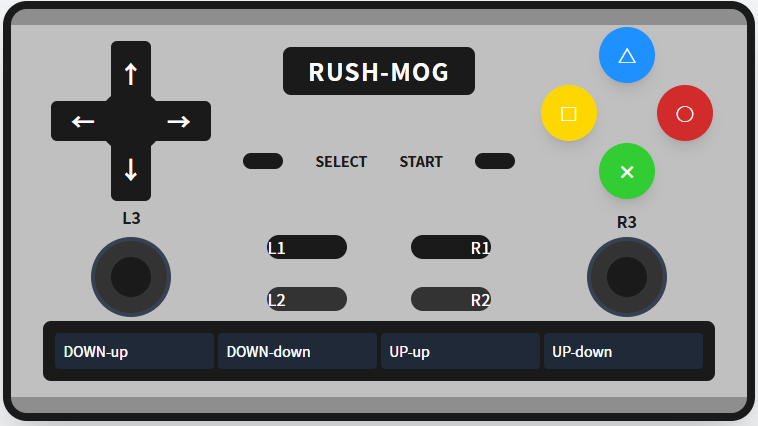
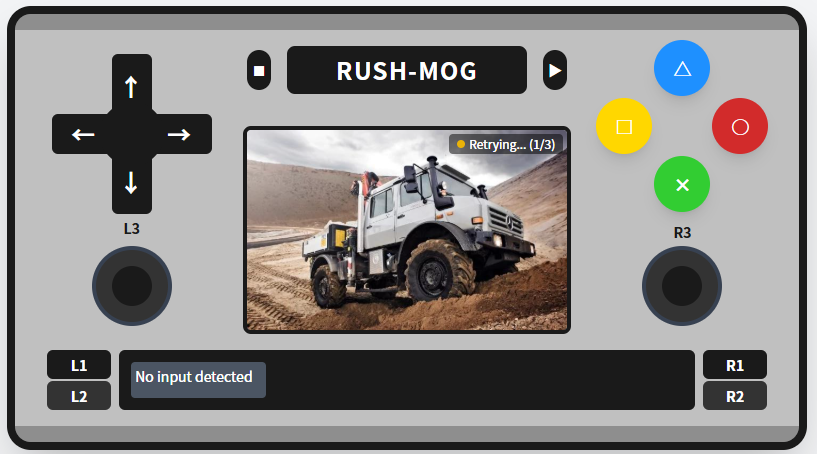
fix hight.

diff --git a/software/remote_center/data/index.html b/software/remote_center/data/index.html
@@ -4,8 +4,8 @@
     <meta charset="UTF-8">
     <meta name="viewport" content="width=device-width, initial-scale=1.0">
     <title>RUSH-MOG</title>
-    <script src="../data/ps2.js"></script>
-    <link href="../data/ps2.css" rel="stylesheet">
+    <script src="ps2.js"></script>
+    <link href="ps2.css" rel="stylesheet">
     <script>
         tailwind.config = {
             theme: {
@@ -172,18 +172,18 @@
             <!-- 底部：自适应宽度、不再写死像素，Mate60横屏完美适配不溢出 -->
             <div class="mt-3 md:mt-4 flex items-stretch w-full gap-2">
                 <!-- 左侧 L1 / L2 自适应固定窄宽 -->
-                <div class="flex flex-col h-[70px] md:h-[88px] w-12 md:w-16 shrink-0">
+                <div class="flex flex-col h-[60px] md:h-[60px] w-12 md:w-16 shrink-0">
                     <div id="l1" class="h-1/2 bg-ps2black rounded-md flex items-center justify-center text-white font-bold text-sm transition-all duration-100 active:scale-95">L1</div>
                     <div id="l2" class="h-1/2 bg-ps2dark rounded-md flex items-center justify-center text-white font-bold text-sm mt-0.5 transition-all duration-100 active:scale-95">L2</div>
                 </div>
 
                 <!-- 中间：状态栏弹性宽度、固定高度、内容溢出隐藏，不会撑宽页面 -->
-                <div id="status" class="bg-ps2black text-white p-2 md:p-3 rounded-md h-[70px] md:h-[88px] flex-1 grid grid-cols-1 md:grid-cols-4 gap-1 overflow-hidden">
-                    <div class="bg-gray-800 p-1 md:p-2 rounded text-xs md:text-sm">No input detected</div>
+                <div id="status" class="bg-ps2black text-white p-2 md:p-3 rounded-md h-[60px] md:h-[60px] flex-1 grid grid-cols-1 md:grid-cols-4 gap-1 overflow-hidden">
+                    <div class="bg-gray-600 p-1 md:p-1 rounded text-xs md:text-sm">No input detected</div>
                 </div>
 
                 <!-- 右侧 R1 / R2 同左侧固定窄宽 -->
-                <div class="flex flex-col h-[70px] md:h-[88px] w-12 md:w-16 shrink-0">
+                <div class="flex flex-col h-[60px] md:h-[60px] w-12 md:w-16 shrink-0">
                     <div id="r1" class="h-1/2 bg-ps2black rounded-md flex items-center justify-center text-white font-bold text-sm transition-all duration-100 active:scale-95">R1</div>
                     <div id="r2" class="h-1/2 bg-ps2dark rounded-md flex items-center justify-center text-white font-bold text-sm mt-0.5 transition-all duration-100 active:scale-95">R2</div>
                 </div>
@@ -205,7 +205,7 @@
             statusElement.innerHTML = '';
             statusEntries.forEach(entry => {
                 const el = document.createElement('div');
-                el.className = 'bg-gray-800 p-1 md:p-2 rounded text-xs md:text-sm';
+                el.className = 'bg-gray-800 p-1 md:p-1 rounded text-xs md:text-sm';
                 el.textContent = entry;
                 statusElement.appendChild(el);
             });
@@ -307,7 +307,7 @@
         const cameraImg = document.getElementById('camera');
         const statusDot = document.getElementById('camera-status-dot');
         const statusText = document.getElementById('camera-status-text');
-        const defaultImage = 'unimog.jpeg';
+        const defaultImage = '/data/unimog.jpeg';
         const streamUrl = '/stream';
         let isStreaming = false;
         let retryCount = 0;

diff --git a/software/remote_center/src/main.cpp b/software/remote_center/src/main.cpp
@@ -37,7 +37,7 @@ void setup()
   server.onNotFound(handleWebRequest);
   server.on("/cmd-button", handleCmdButton);
   server.on("/cmd-stick", handleCmdStick);
-  // server.on("/stream", handleCameraStream);
+  server.on("/stream", handleCameraStream);
   server.begin();
   Serial.println("Web 服务器已启动");
 }
